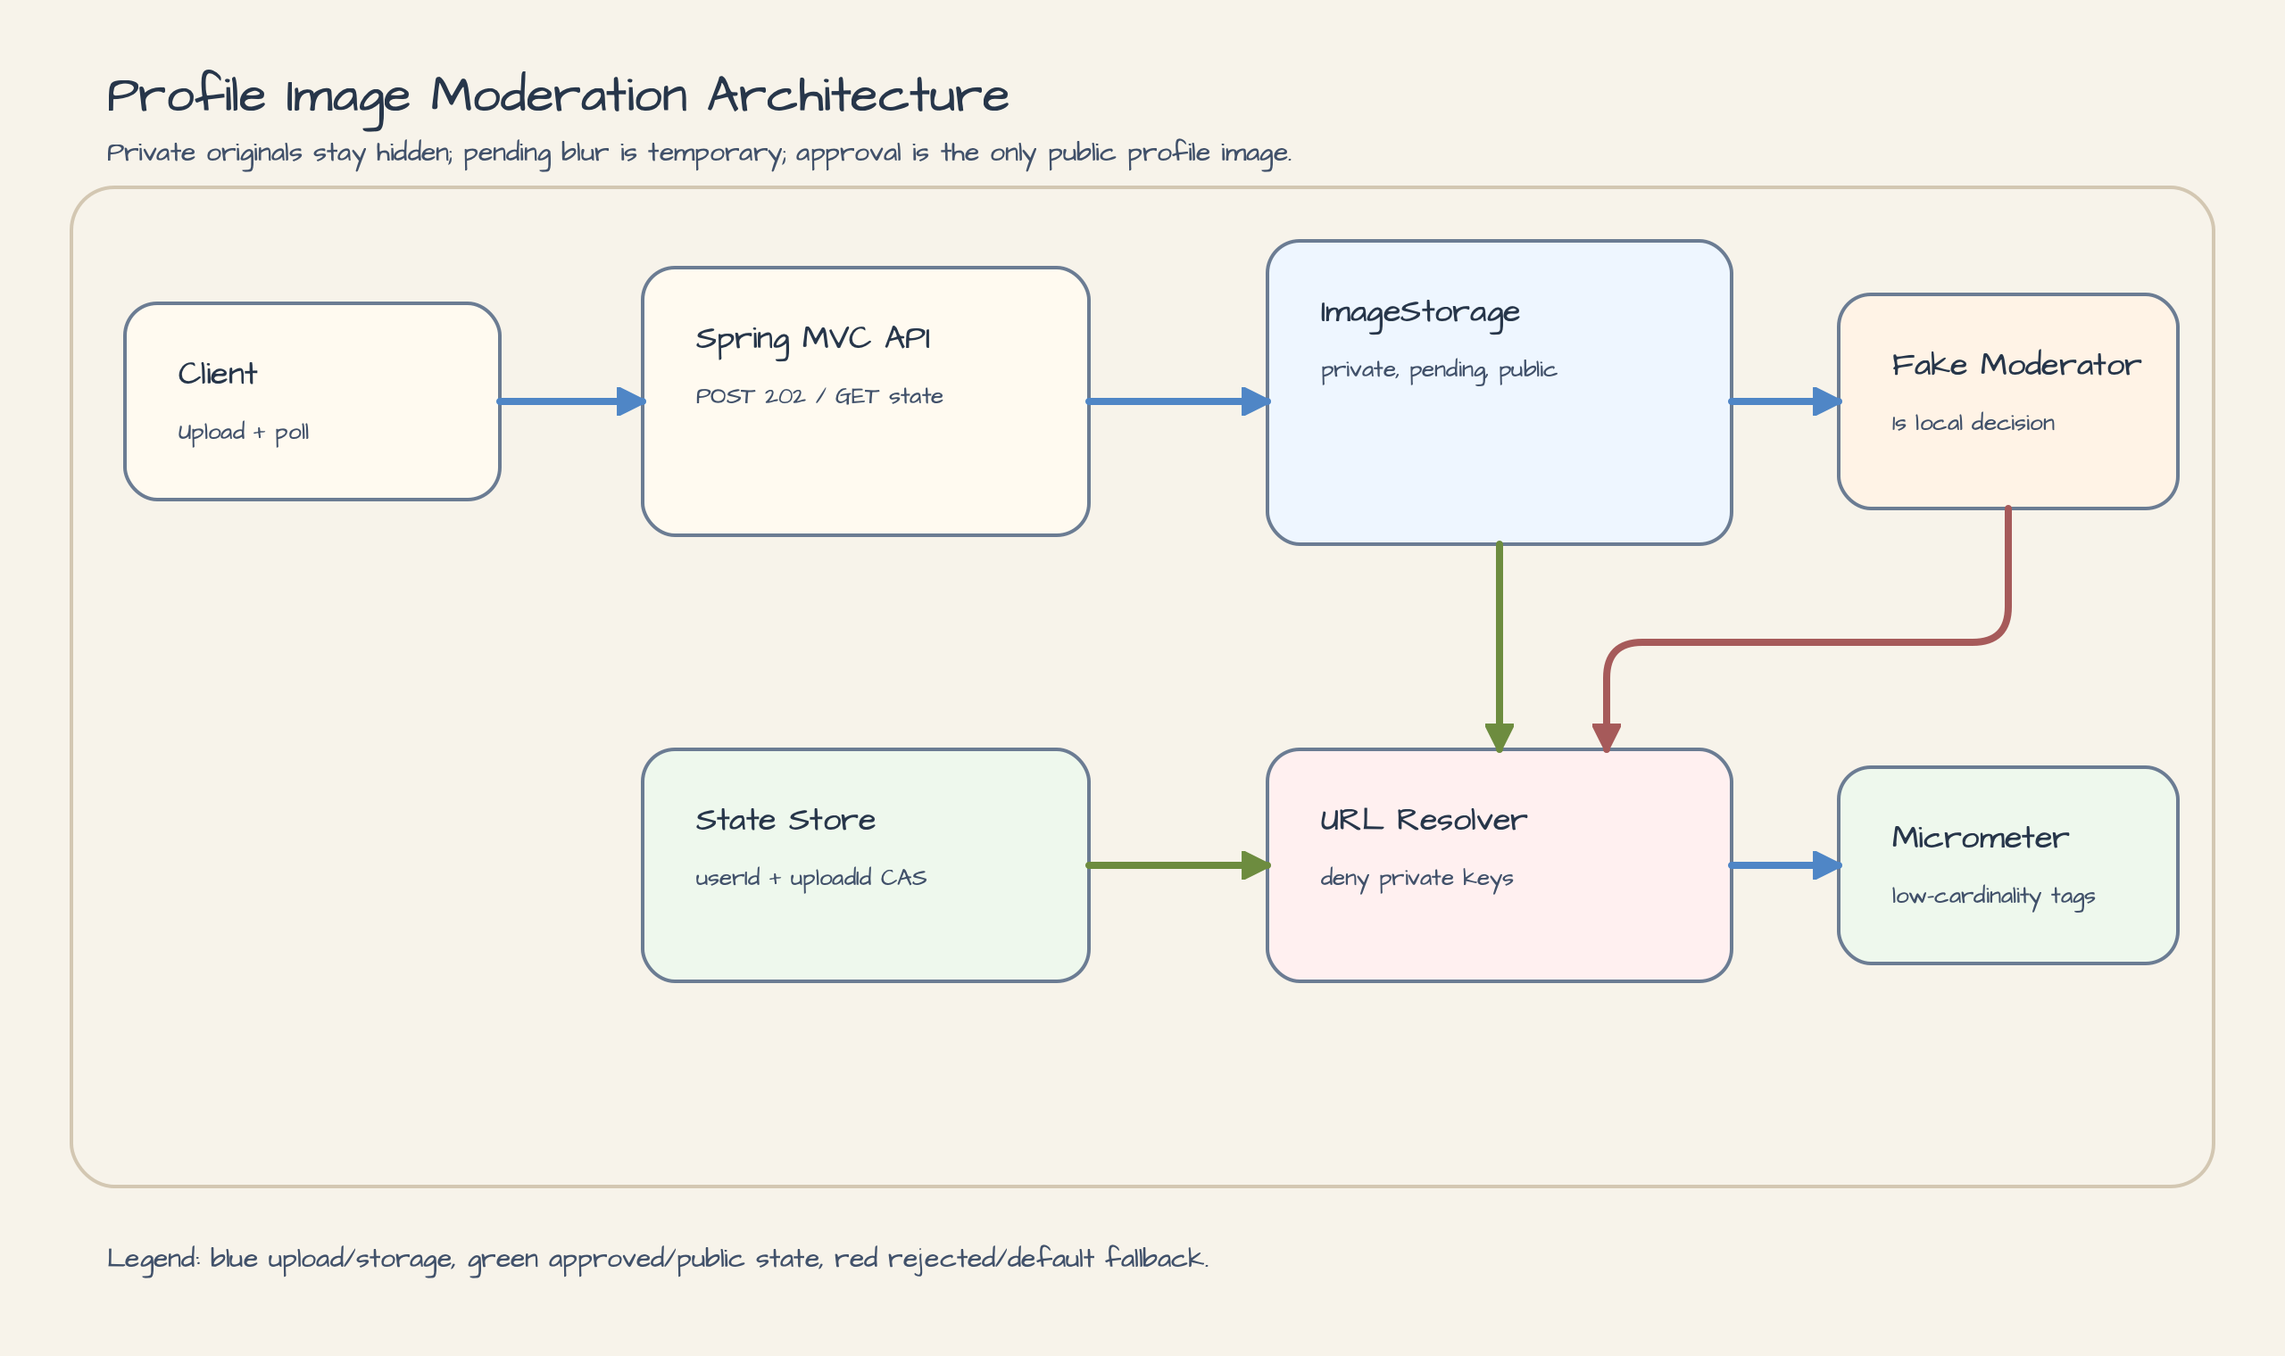
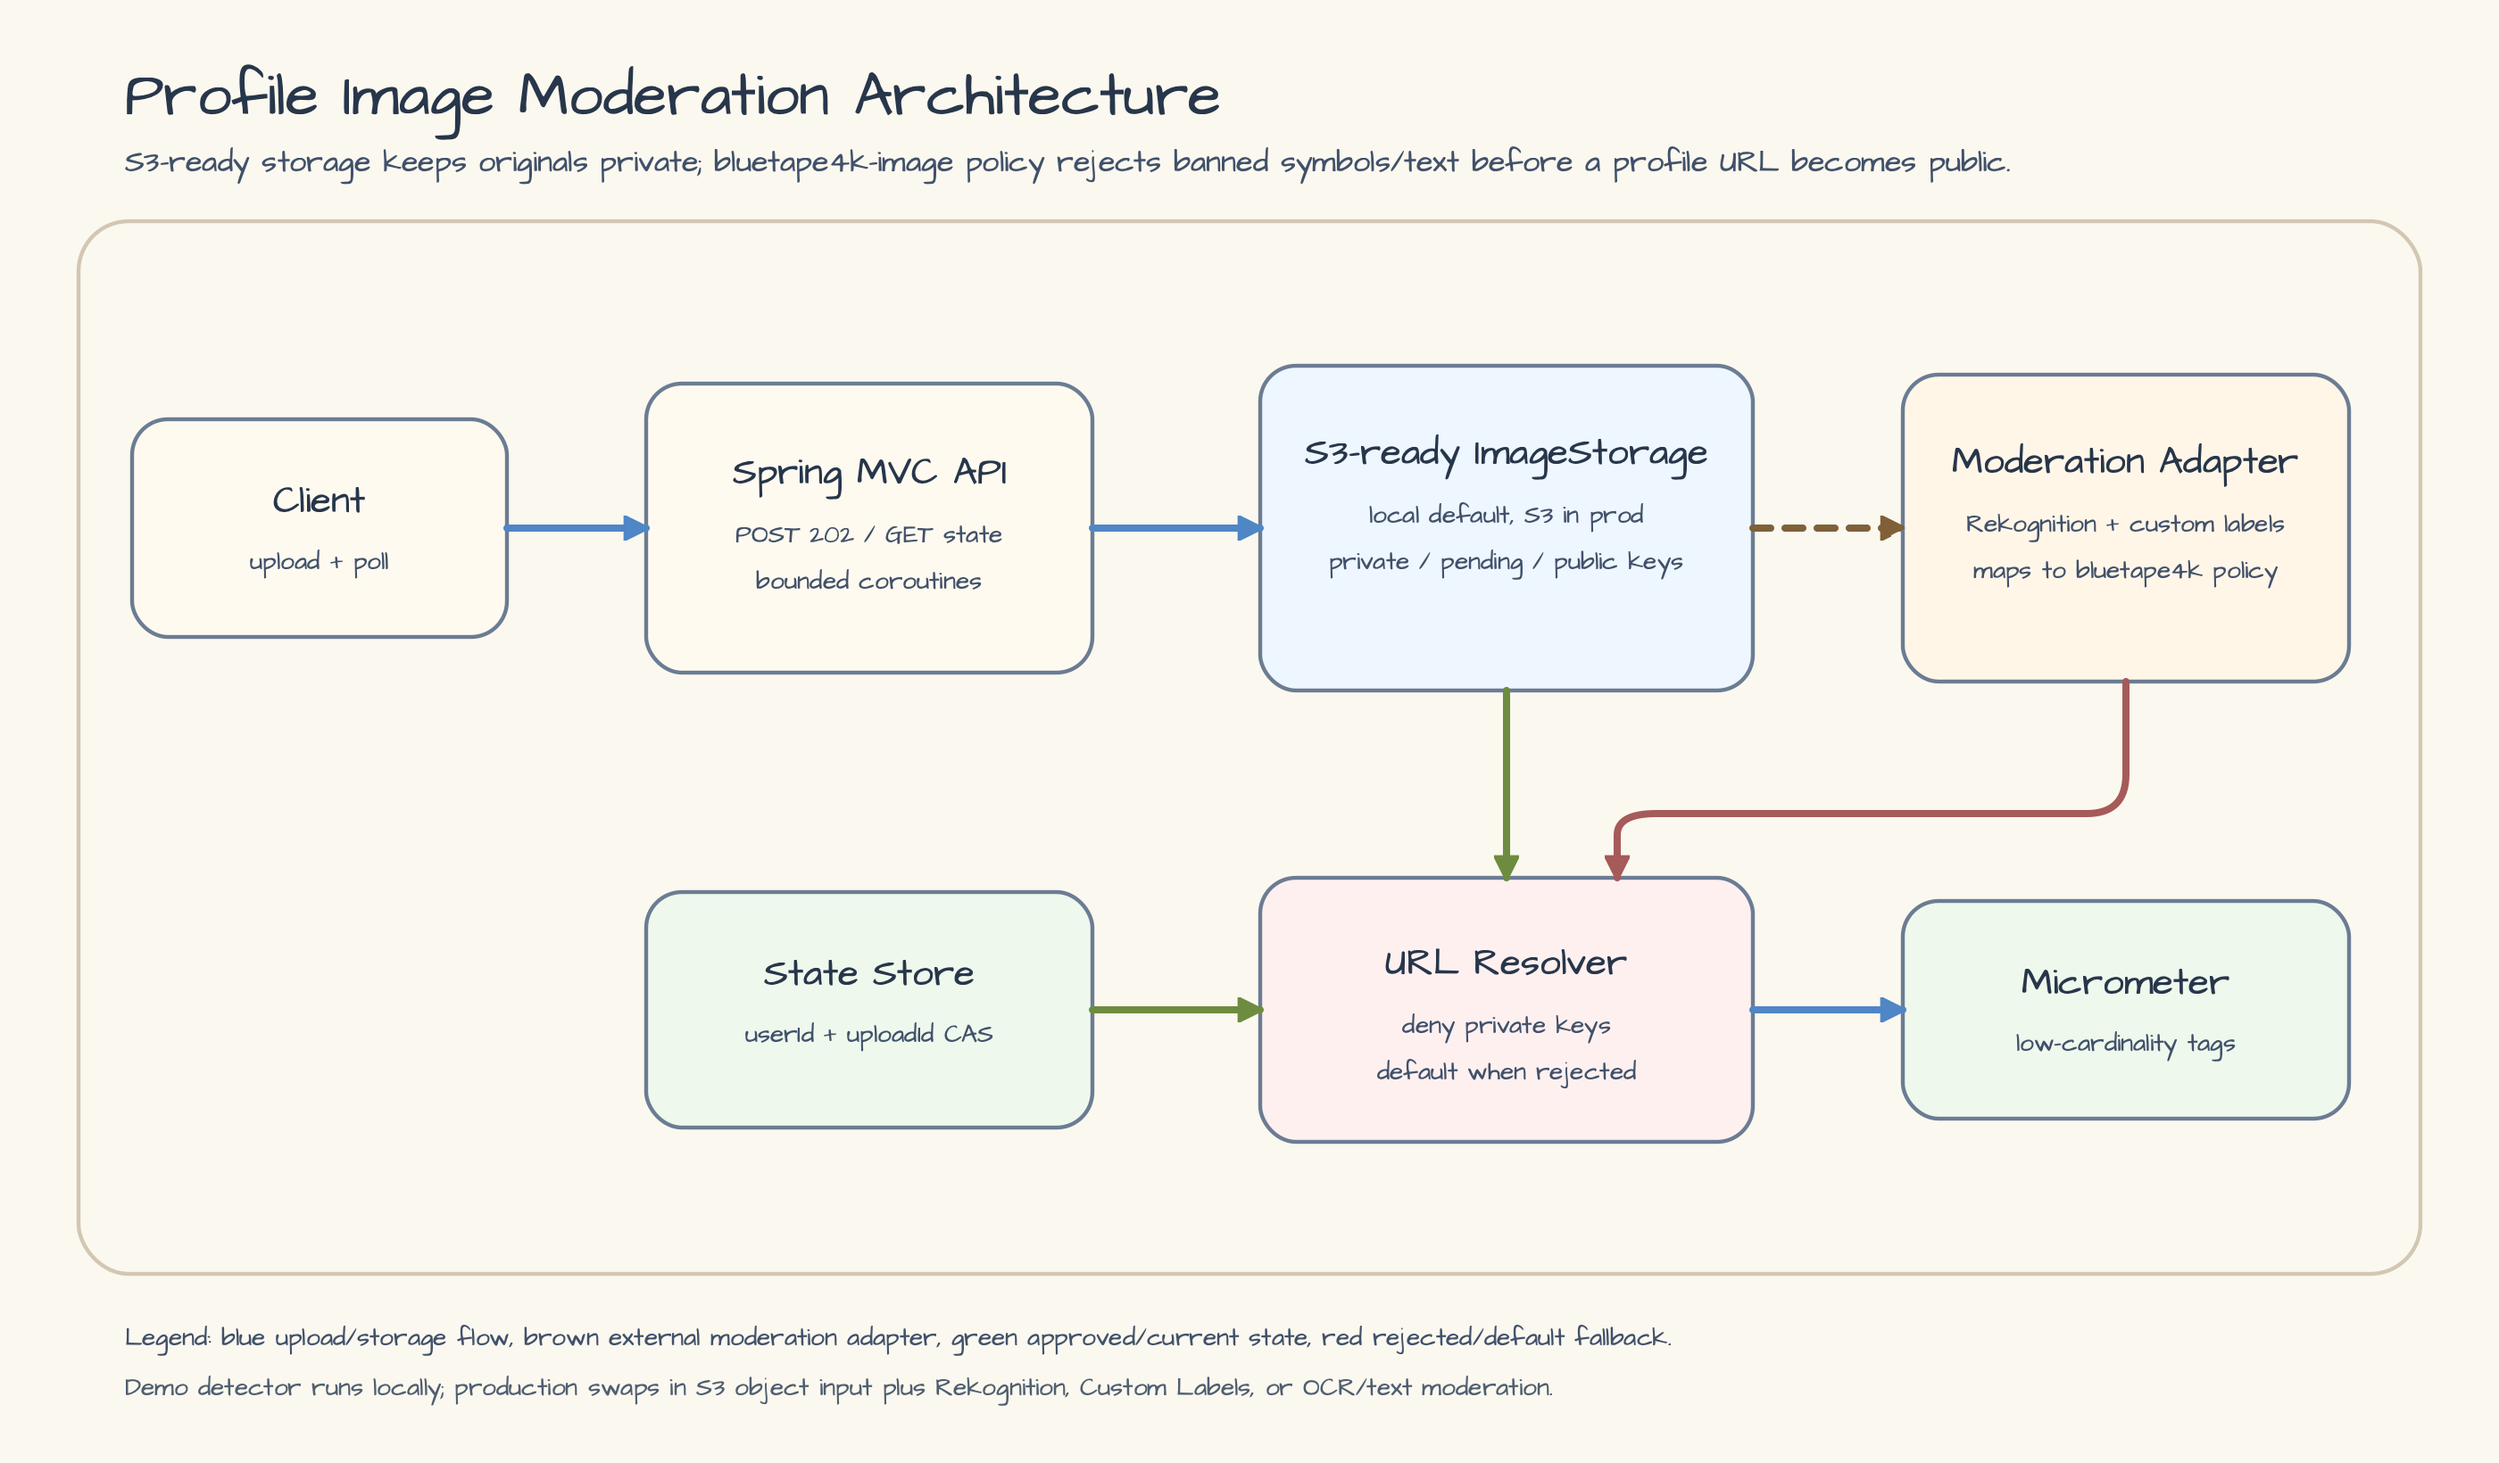
Model banned profile image moderation policy
Constraint: User wanted a practical profile-image policy example for Nazi symbols, Rising Sun imagery, and hate-expression text rather than a fake moderator diagram.

Rejected: Importing local bluetape4k-image moderation sources directly | the workshop dependency train does not expose that package yet, so CI would not compile.

Confidence: high

Scope-risk: narrow

Directive: Keep this example credential-free locally, but preserve the S3/Rekognition/Custom Labels/OCR adapter seam for production.

Tested: ./gradlew :image-processing-profile-image-moderation:test --rerun-tasks --console=plain; node scripts/validate-readme-diagram-qa.mjs docs/images/readme-diagrams/profile-image-moderation-readme-architecture-01.svg docs/images/readme-diagrams/profile-image-moderation-readme-sequence-01.svg; git diff --check.

diff --git a/image-processing/profile-image-moderation/src/main/kotlin/io/bluetape4k/workshop/imageprocessing/profile/service/ImageModerationProvider.kt b/image-processing/profile-image-moderation/src/main/kotlin/io/bluetape4k/workshop/imageprocessing/profile/service/ImageModerationProvider.kt
@@ -6,6 +6,7 @@ import io.bluetape4k.workshop.imageprocessing.profile.model.ModerationRequest
 import io.bluetape4k.workshop.imageprocessing.profile.model.ModerationResult
 import kotlinx.coroutines.delay
 import org.springframework.stereotype.Component
+import java.io.Serializable
 
 /**
  * Contract for asynchronous profile-image moderation decisions.
@@ -15,10 +16,16 @@ interface ImageModerationProvider {
 }
 
 /**
- * Deterministic local moderator used by the workshop scenario.
+ * Profile-image moderation policy provider for banned symbols and text.
+ *
+ * The workshop ships with deterministic demo detections so it can run without
+ * cloud credentials. Production deployments should replace [detect] with AWS
+ * Rekognition moderation labels, a Custom Labels model for local policy symbols,
+ * OCR/text moderation, or a human-review queue while keeping the policy decision
+ * mapping and profile-image state flow intact.
  */
 @Component
-class FakeImageModerationProvider(
+class ProfileImageModerationPolicyProvider(
     private val properties: ProfileImageModerationProperties,
 ) : ImageModerationProvider {
 
@@ -26,11 +33,35 @@ class FakeImageModerationProvider(
         if (!properties.decisionDelay.isZero) {
             delay(properties.decisionDelay.toMillis())
         }
+
+        val detections = detect(request)
+        return detections.firstOrNull()?.let { detection ->
+            ModerationResult(ModerationDecision.REJECTED, detection.reason)
+        } ?: ModerationResult(ModerationDecision.APPROVED, "No banned profile-image content detected")
+    }
+
+    private fun detect(request: ModerationRequest): List<ProfileContentDetection> {
         val filename = request.originalFilename.orEmpty().lowercase()
-        return if (filename.contains(properties.rejectedFilenameMarker.lowercase())) {
-            ModerationResult(ModerationDecision.REJECTED, "demo filename marker matched")
-        } else {
-            ModerationResult(ModerationDecision.APPROVED, "demo moderation approved")
+        return buildList {
+            if (filename.contains("nazi") || filename.contains(properties.rejectedFilenameMarker.lowercase())) {
+                add(ProfileContentDetection("HATE_SYMBOL", "Nazi Party", "profile image contains a banned hate symbol"))
+            }
+            if (filename.contains("rising-sun") || filename.contains("imperial-flag")) {
+                add(ProfileContentDetection("HATE_SYMBOL", "Rising Sun Flag", "profile image contains a banned hate symbol"))
+            }
+            if (filename.contains("hate-text") || filename.contains("hate-speech")) {
+                add(ProfileContentDetection("SENSITIVE_TEXT", "Hate Expression", "profile image contains banned hate expression text"))
+            }
+        }
+    }
+
+    private data class ProfileContentDetection(
+        val category: String,
+        val rawLabel: String,
+        val reason: String,
+    ) : Serializable {
+        companion object {
+            private const val serialVersionUID: Long = 1L
         }
     }
 }

diff --git a/image-processing/profile-image-moderation/src/test/kotlin/io/bluetape4k/workshop/imageprocessing/profile/service/ProfileImageModerationPolicyProviderTest.kt b/image-processing/profile-image-moderation/src/test/kotlin/io/bluetape4k/workshop/imageprocessing/profile/service/ProfileImageModerationPolicyProviderTest.kt
@@ -1,0 +1,39 @@
+package io.bluetape4k.workshop.imageprocessing.profile.service
+
+import io.bluetape4k.assertions.shouldBeEqualTo
+import io.bluetape4k.images.spring.ImageObjectKey
+import io.bluetape4k.junit5.coroutines.runSuspendIO
+import io.bluetape4k.workshop.imageprocessing.profile.model.ModerationDecision
+import io.bluetape4k.workshop.imageprocessing.profile.model.ModerationRequest
+import org.junit.jupiter.params.ParameterizedTest
+import org.junit.jupiter.params.provider.ValueSource
+
+class ProfileImageModerationPolicyProviderTest {
+
+    @ParameterizedTest(name = "banned profile marker {0} is rejected")
+    @ValueSource(strings = ["nazi-symbol.jpg", "rising-sun-avatar.jpg", "hate-text-profile.jpg", "reject.jpg"])
+    fun banned_profile_symbols_and_text_are_rejected(filename: String) = runSuspendIO {
+        val provider = ProfileImageModerationPolicyProvider(testProperties())
+
+        val result = provider.moderate(request(filename))
+
+        result.decision shouldBeEqualTo ModerationDecision.REJECTED
+    }
+
+    @ParameterizedTest(name = "safe profile marker {0} is approved")
+    @ValueSource(strings = ["family-photo.jpg", "blue-profile.png"])
+    fun safe_profile_images_are_approved(filename: String) = runSuspendIO {
+        val provider = ProfileImageModerationPolicyProvider(testProperties())
+
+        val result = provider.moderate(request(filename))
+
+        result.decision shouldBeEqualTo ModerationDecision.APPROVED
+    }
+
+    private fun request(filename: String): ModerationRequest = ModerationRequest(
+        userId = "user-1",
+        uploadId = "upload-a",
+        originalFilename = filename,
+        originalKey = ImageObjectKey.of("profile-images/user-1/upload-a/private/original", filename),
+    )
+}

diff --git a/image-processing/profile-image-moderation/README.ko.md b/image-processing/profile-image-moderation/README.ko.md
@@ -20,6 +20,7 @@
 | Object storage | `ImageStorage`, `ImageObjectKey`, `UploadOptions` | `ProfileImageService`, `ProfileImageKeyFactory` |
 | 안전한 검증 | `require*` helper와 안정적인 ProblemDetail mapping | `UploadImageValidator`, `ProfileImageExceptionHandler` |
 | 코루틴 | 제한된 background moderation runner | `ProfileImageModerationRunner` |
+| Moderation policy | profile content policy adapter | `ProfileImageModerationPolicyProvider` |
 | Metrics | 낮은 cardinality의 Micrometer counter/timer | `ProfileImageMetrics` |
 | ID 생성 | Base58 upload id | `ProfileImageService` |
 
@@ -103,7 +104,7 @@ Moderation provider가 timeout 또는 실패를 내면 상태는 `MODERATION_FAI
 
 ## Moderation Provider
 
-기본 provider는 deterministic local 구현입니다. `workshop.profile-image-moderation.decision-delay`만큼 대기하고(기본 1초), 파일명에 `reject`가 포함되면 반려합니다. 운영 코드에서는 `ImageModerationProvider`를 AWS Rekognition `DetectModerationLabels` 또는 byte/object 기반 moderation 서비스로 교체해야 합니다. 파일명 marker는 데모 전용이며 실제 안전 판정에 사용하면 안 됩니다.
+기본 provider는 cloud credential 없이 실행되는 deterministic local 구현입니다. `workshop.profile-image-moderation.decision-delay`만큼 대기하고(기본 1초), `nazi`, `rising-sun`, `hate-text`, `reject` 같은 파일명 marker를 금지된 profile-content detection으로 변환합니다. 이후 local policy가 금지된 hate symbol 또는 hate-expression text를 reject합니다. 운영 코드에서는 demo detection 단계를 [AWS Rekognition `DetectModerationLabels`](https://docs.aws.amazon.com/rekognition/latest/dg/moderation-api.html)가 제공하는 Nazi Party 같은 hate-symbol label, 필요 시 욱일기 등 로컬 정책 상징을 위한 Custom Labels model, 이미지 내 문구를 위한 OCR/text moderation으로 교체해야 합니다. 이후 dependency train에 최신 bluetape4k-image moderation policy artifact가 들어오면 이 adapter가 backend detection을 공유 policy model로 매핑하는 seam이 됩니다. 파일명 marker는 데모 전용이며 실제 안전 판정에 사용하면 안 됩니다.
 
 ## Operations
 

diff --git a/image-processing/profile-image-moderation/README.md b/image-processing/profile-image-moderation/README.md
@@ -20,6 +20,7 @@ This example demonstrates a production-shaped profile image flow:
 | Object storage | `ImageStorage`, `ImageObjectKey`, `UploadOptions` | `ProfileImageService`, `ProfileImageKeyFactory` |
 | Safe validation | `require*` helpers and stable ProblemDetail mapping | `UploadImageValidator`, `ProfileImageExceptionHandler` |
 | Coroutines | bounded background moderation runner | `ProfileImageModerationRunner` |
+| Moderation policy | profile content policy adapter | `ProfileImageModerationPolicyProvider` |
 | Metrics | low-cardinality Micrometer counters/timers | `ProfileImageMetrics` |
 | ID generation | Base58 upload ids | `ProfileImageService` |
 
@@ -103,7 +104,7 @@ Invalid uploads return RFC 9457 ProblemDetail JSON:
 
 ## Moderation Provider
 
-The default provider is deterministic and local: it waits for `workshop.profile-image-moderation.decision-delay` (1 second by default) and rejects filenames containing `reject`. Production code should replace `ImageModerationProvider` with AWS Rekognition `DetectModerationLabels` or another byte/object-based moderation service. Filename markers are demo-only and must not be used for real safety decisions.
+The default provider is deterministic and local so the example can run without cloud credentials: it waits for `workshop.profile-image-moderation.decision-delay` (1 second by default) and maps filename markers such as `nazi`, `rising-sun`, `hate-text`, and `reject` into banned profile-content detections. The local policy then rejects banned hate symbols or hate-expression text. Production code should replace the demo detection step with [AWS Rekognition `DetectModerationLabels`](https://docs.aws.amazon.com/rekognition/latest/dg/moderation-api.html) for supported hate-symbol labels such as Nazi Party, a Custom Labels model for local policy symbols such as Rising Sun imagery when required, and OCR/text moderation for embedded hate expressions. When the newer bluetape4k-image moderation policy artifacts are available in the dependency train, this adapter is the seam that should map backend detections into those shared policy models. Filename markers are demo-only and must not be used for real safety decisions.
 
 ## Operations
 
